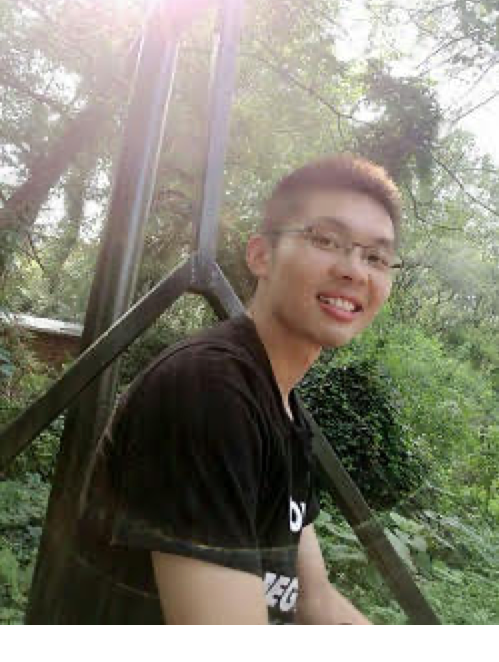
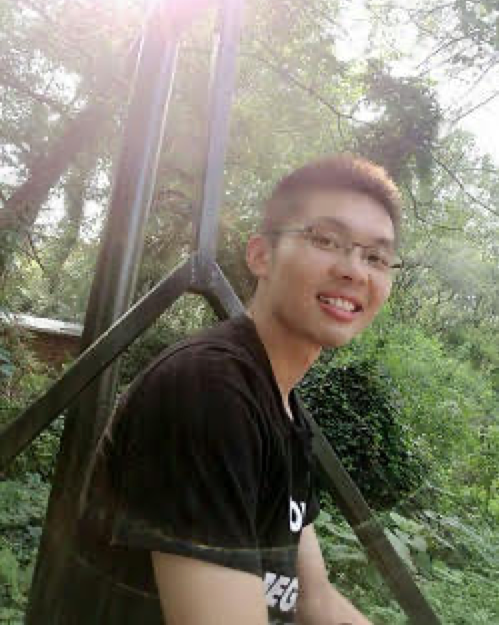
Update

diff --git a/_includes/people.html b/_includes/people.html
@@ -77,7 +77,7 @@
             <div class="col-lg-3 col-md-5 text-center">
                 <div class="service-box">
                     <!-- <i class="fa fa-4x fa-heart wow bounceIn text-primary" data-wow-delay=".3s"></i> -->
-                    <img src="img/portfolio/li.png" class="img-responsive" alt="" data-wow-delay=".2s">
+                    <img src="img/portfolio/Li.png" class="img-responsive" alt="" data-wow-delay=".2s">
                     <h3>Bingbing Li</h3>
                     <p class="text-justify">Ph.D. student in CSE, University of Connecticut. He obtained his Ph.D. at SIA, CAS. Expertise in machine learning, algorithm, robotics and data analysis.</p>
                 </div>
